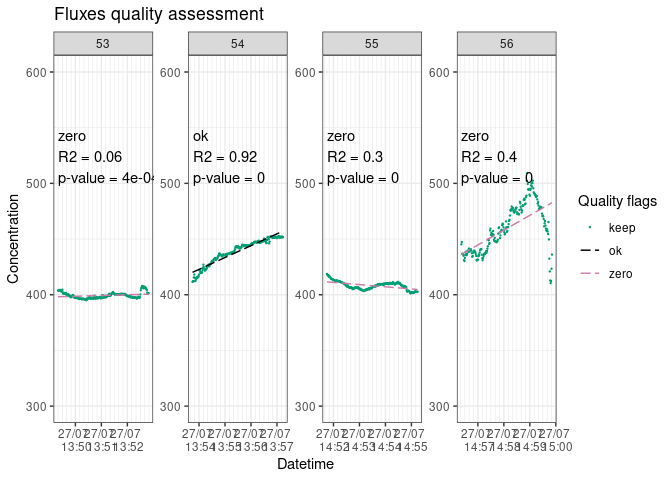
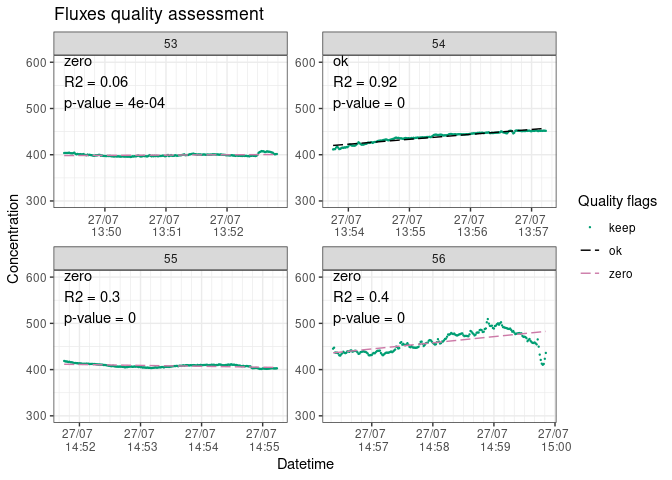
improved plots

diff --git a/README.md b/README.md
@@ -131,8 +131,9 @@ slopes_lin_liahovden |>
       f_plotname = "example_lia",
       f_ylim_lower = 300,
       f_ylim_upper = 600,
-      f_nrow = 1,
-      y_text_position = 400
+      f_nrow = 2,
+      f_ncol = 2,
+      y_text_position = 500
       )
 #> [1] "Saving plots in f_quality_plots folder."
 ```
@@ -156,8 +157,9 @@ slopes_lin_liahovden_120 |>
       f_plotname = "example_lia_lin",
       f_ylim_lower = 300,
       f_ylim_upper = 600,
-      f_nrow = 1,
-      y_text_position = 400
+      f_nrow = 2,
+      f_ncol = 2,
+      y_text_position = 500
       )
 #> [1] "Saving plots in f_quality_plots folder."
 ```
@@ -225,8 +227,9 @@ slopes_exp_liahovden |>
       f_plotname = "example_lia_exp",
       f_ylim_lower = 300,
       f_ylim_upper = 600,
-      f_nrow = 1,
-      y_text_position = 400
+      f_nrow = 2,
+      f_ncol = 2,
+      y_text_position = 500
       )
 #> [1] "Saving plots in f_quality_plots folder."
 ```
@@ -251,8 +254,9 @@ slopes_exp_liahovden_30 |>
       f_plotname = "example_lia_lin",
       f_ylim_lower = 300,
       f_ylim_upper = 600,
-      f_nrow = 1,
-      y_text_position = 400
+      f_nrow = 2,
+      f_ncol = 2,
+      y_text_position = 500
       )
 #> [1] "Saving plots in f_quality_plots folder."
 ```
